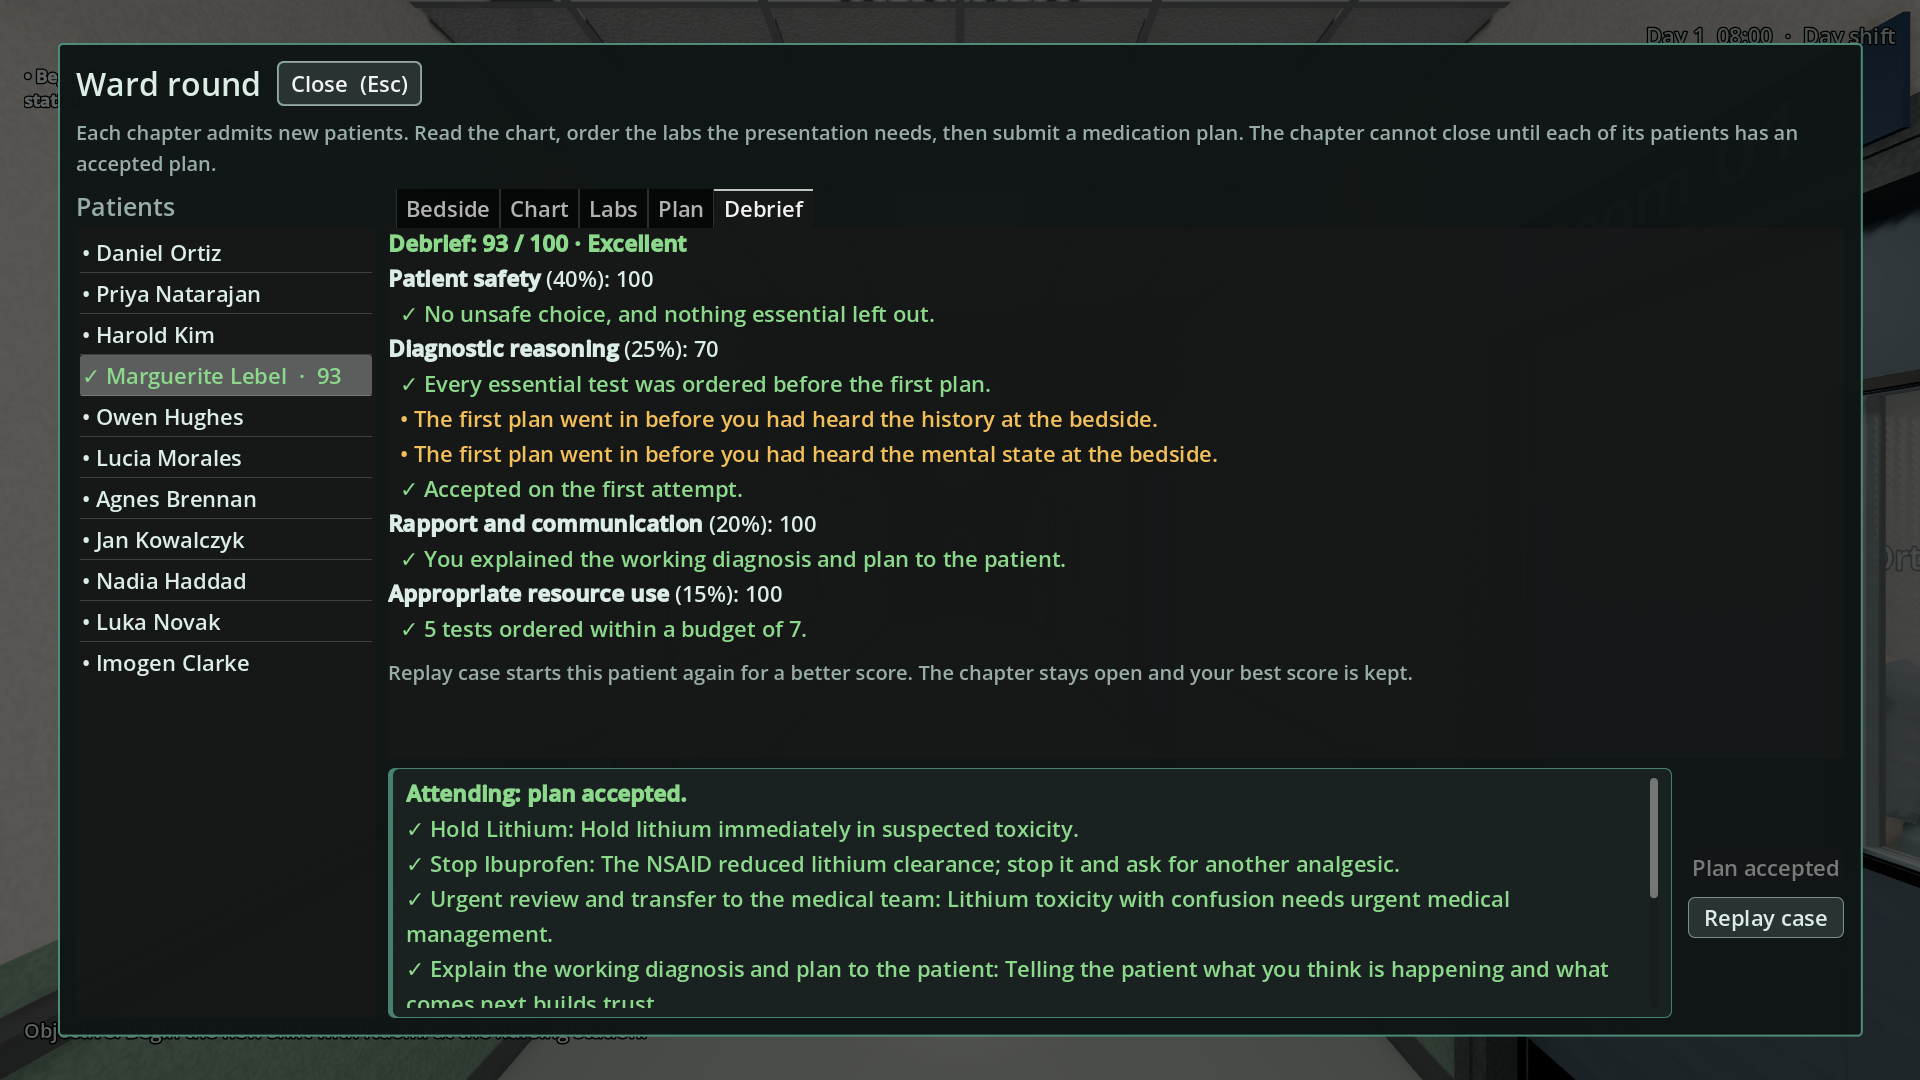
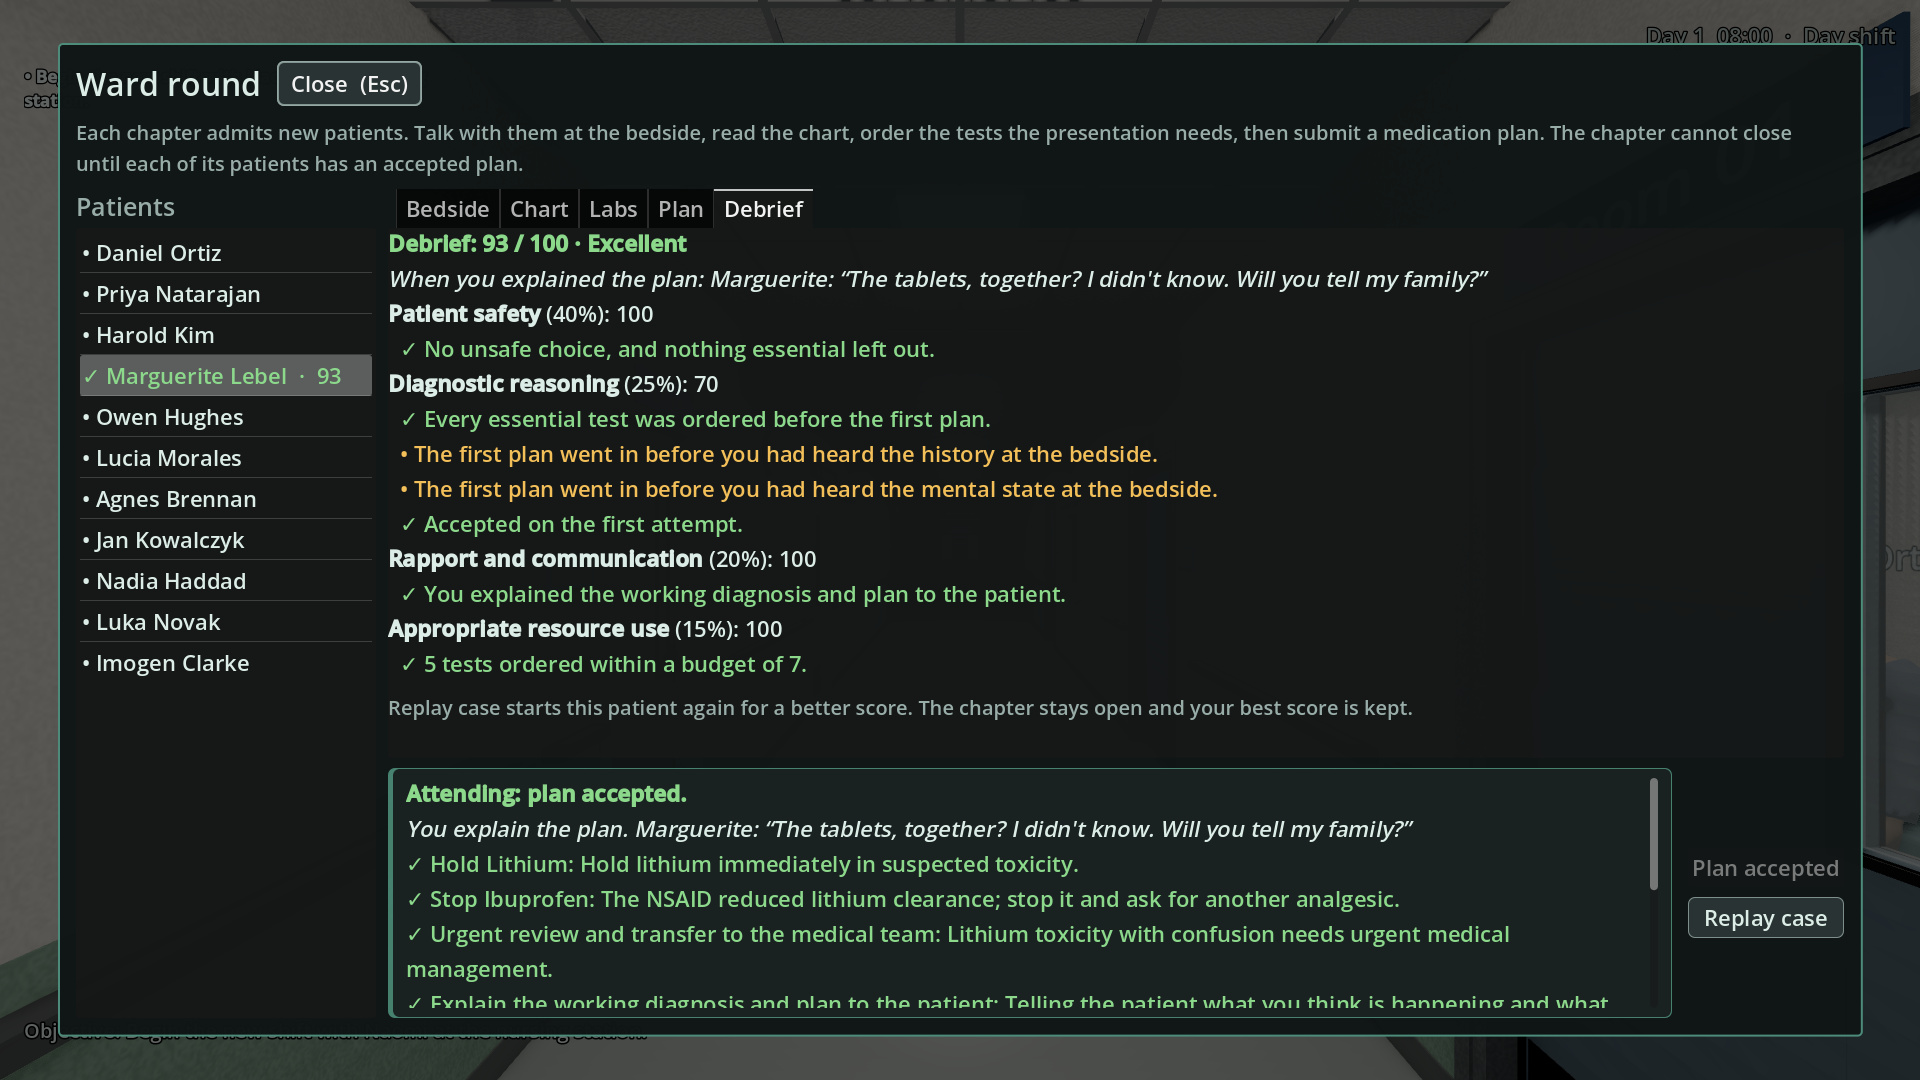
Ward rounds: the patient answers when you explain the plan
Each case gets a draft line (pending review), shown with the attending's
reply and in the debrief when the accepted plan included explaining it.

Claude-Session: https://claude.ai/code/session_018yfydewyfGQxfDVfhVpzYB

diff --git a/docs/clinical_review_log.md b/docs/clinical_review_log.md
@@ -58,3 +58,4 @@ Bi (owner, executive producer, physician) in the Forensics Game project thread, 
 | 2026-11-03 | Ward-round bedside conversation: three openings (warm, direct, rushed) with generic patient responses, three questions that reveal each case's existing history, mental state and observations, a repair line and a low-trust reply; debrief penalties for a rushed or direct opening and for a plan sent before the history and mental state were heard | `data/ward_rounds.json` `bedside`, `scripts/clinical/WardRounds.gd`, `scripts/clinical/WardRoundScoring.gd` | **Pending; no clinical approval granted** | | Generic communication wording by Claude Code; answers are the cases' own chart text, so nothing new is said about any patient. Applies to every case, including the approved ones (the chart now fills in as you ask). |
 | 2026-11-03 | Patients' own spoken bedside answers: a history line and a mental-state line for each of the 28 ward-round cases, in the patient's voice; patients who cannot answer (Adeyemi, Okafor, and Quinn's history) get a bracketed description of what you see | `data/ward_rounds.json` `cases[].bedside_lines` | **Pending; no clinical approval granted** | | Drafted by Claude Code from each case's own history and mental-state text; no new clinical facts, doses or thresholds. The chart still shows the clinician's full text. Applies to the approved cases too, as voice only; their answer keys are unchanged. |
 | 2026-11-04 | Patients' own spoken bedside answers (history and mental-state lines for all 28 cases) | `data/ward_rounds.json` `cases[].bedside_lines` | **Approved** | Owner (executive producer, physician) | Owner's words in the project thread (2026-11-04 14:12 UTC): "i apprve the bedside lines so far". Approved as written in `bedside_lines_review.md`. The generic bedside openings, repair and low-trust wording, and the scoring deductions, were not named and stay pending. |
+| 2026-11-04 | What each of the 28 ward-round patients says when the accepted plan includes explaining it to them (one line per case; bracketed descriptions for Adeyemi, Okafor and Quinn) | `data/ward_rounds.json` `cases[].plan_response` | **Pending; no clinical approval granted** | | Drafted by Claude Code. Emotional responses only: no treatment names, doses or outcomes. Family members named only where the case already mentions them (Kim's and Doyle's wives, Whitaker's daughter). Shown with the attending's reply and in the debrief; it does not change any score. |

diff --git a/docs/AI_PROGRESS_TRACKER.md b/docs/AI_PROGRESS_TRACKER.md
@@ -9,6 +9,7 @@
 | Bedside conversation (opening sets trust, questions fill the chart, debrief counts it) | Done, draft PR #120 | #119 | `WardRounds.gd`, `WardRoundScreen.gd`, `data/ward_rounds.json` `bedside` | `test_ward_round_conversation` (5), captures | Bi reviews wording; case-specific lines next |
 | Patients answer in their own words (28 cases × history and mental-state lines) | Done, draft PR #121, lines approved by Bi 2026-11-04 | #120 | `data/ward_rounds.json` `bedside_lines`, `WardRounds.bedside_line`, `WardRoundCatalog.validate_bedside_lines` | `test_ward_round_conversation` (7) | Bi reviews the lines |
 | Ponytail strand cards and hairline wisps (22 patients rebuilt) | Done, draft PR | #121 | `build_cast_member.py` (`tail_cards`, `hairline_cards`), `pt_wr_*.json`, patient GLBs | full QA, in-game capture | Bi looks at the hair |
+| Patient answers when you explain the plan (28 lines) | Done, draft PR, pending Bi's review | #122 | `data/ward_rounds.json` `plan_response`, `WardRounds.plan_response`, `WardRoundScreen.gd` | `test_ward_round_conversation` (8) | Bi reviews the lines |
 | Hair cards on 23 patients (strand strips over the cap) | Done, draft PR | #118 | `build_cast_member.py` `hair.cards` | GLB 199/0, in-game capture | Bi looks at the hair |
 | Older/greying/heavier patient looks (age marks, grey hair, receding temples, weight at any age); 15 rebuilt | Done, draft PR | #117 | `build_cast_member.py`, `pt_wr_*.json` | GLB 199/0, before/after sheet | Bi looks at the faces |
 | Case bible third wave (8 cases, referral labels, bedside assessments, wrong-for-everyone choices) | Done on #115, pending Bi's clinical review | #115 | `data/ward_rounds.json`, `WardRoundCatalog.gd` | `test_ward_rounds` | Bi reviews in the review doc |

diff --git a/docs/AI_HANDOFF.md b/docs/AI_HANDOFF.md
@@ -20,6 +20,7 @@ One row per branch that someone is working on. Claim the folders or files you wi
 
 | Workstream | Branch | Agent / session | Latest verified commit | Claimed files | State |
 |---|---|---|---|---|---|
+| Patient answers the explained plan | `claude/ward-round-plan-response` (draft PR to `claude/patient-hair-tails`) | Claude Code (cloud) | last commit on the branch | `data/ward_rounds.json` `plan_response`, `WardRounds.gd`, `WardRoundCatalog.gd`, `WardRoundScreen.gd`, `test_ward_round_conversation.gd` | Full QA; lines pending Bi's review |
 | Patient ponytails and hairlines | `claude/patient-hair-tails` (draft PR to `claude/ward-round-patient-voices`) | Claude Code (cloud) | last commit on the branch | `tools/blender/characters/build_cast_member.py`, `tools/blender/characters/cast/pt_wr_*.json`, rebuilt patient assets | Full QA; waiting on Bi's look |
 | Ward-round patient voices | `claude/ward-round-patient-voices` (draft PR to `claude/ward-round-bedside-talk`) | Claude Code (cloud) | last commit on the branch | `data/ward_rounds.json` `bedside_lines`, `WardRounds.gd`, `WardRoundCatalog.gd`, `test_ward_round_conversation.gd` | Full QA passed; lines approved by Bi 2026-11-04 |
 | Ward-round bedside conversation | `claude/ward-round-bedside-talk` (draft PR to `claude/patient-hair-cards`) | Claude Code (cloud) | last commit on the branch | `WardRounds.gd`, `WardRoundCatalog.gd`, `WardRoundScoring.gd`, `WardRoundScreen.gd`, `data/ward_rounds.json` `bedside`, `test_ward_round_conversation.gd`, capture tool | Full QA passed; waiting on Bi |

diff --git a/docs/AI_SESSION_HANDOFF.md b/docs/AI_SESSION_HANDOFF.md
@@ -2,6 +2,7 @@
 
 ## Claude Code ward-round patients on the ward — 2026-11-03
 
+- Top of the stack (2026-11-04): `claude/ward-round-plan-response` (draft PR stacked on #122): when the accepted plan includes explaining it, the patient answers in their own words (pending Bi's review). See `docs/handoffs/2026-11-04_claude_ward_round_plan_response.md`.
 - Newest of all (2026-11-04): `claude/patient-hair-tails` (draft PR stacked on #121): ponytails are strand cards over a slimmer core and hairlines break into wisps, on 22 patients. Next: Bi looks at the before/after; then the next story/interactivity step. See `docs/handoffs/2026-11-04_claude_patient_hair_tails.md`.
 - Newest of all: `claude/ward-round-patient-voices` (draft PR stacked on #120): each patient answers bedside questions in their own words (`cases[].bedside_lines`, approved by Bi 2026-11-04); the chart keeps the clinician's text. Full QA passed: game 408/0, audio 1720/0, QA 19/0/0, GLB 199/0, exit 0. Next: Bi reviews the lines (`/mnt/project-files/ward_round/bedside_lines_review.md`). See `docs/handoffs/2026-11-03_claude_ward_round_patient_voices.md`.
 - Most recent: `claude/ward-round-bedside-talk` (draft PR #120, stacked on #119): bedside conversation. Full QA passed: game 406/0, exit 0. Next: Bi reviews; case-specific voiced lines would need reviewed writing. See `docs/handoffs/2026-11-03_claude_ward_round_bedside_talk.md`.

diff --git a/docs/handoffs/2026-11-04_claude_ward_round_plan_response.md b/docs/handoffs/2026-11-04_claude_ward_round_plan_response.md
@@ -1,0 +1,12 @@
+# Handoff: the patient answers when you explain the plan (Claude Code, 2026-11-04)
+
+- Branch: `claude/ward-round-plan-response`, stacked on `claude/patient-hair-tails` (#122). Draft PR; do not merge until the stack is reviewed.
+- What changed:
+  - `data/ward_rounds.json`: every case has `plan_response` {review_status PENDING_PSYCHIATRIST_REVIEW, line}.
+  - `WardRounds.plan_response(case_id)`: the patient's line, formatted like bedside lines, only when the accepted plan includes `int:explain_plan`; "" otherwise. Shared `_spoken` formatter.
+  - `WardRoundCatalog.validate`: a `plan_response` needs a review status and a non-empty line.
+  - `WardRoundScreen`: the line appears under "Attending: plan accepted." and at the top of the Debrief tab. No score changes.
+  - Test: `test_ward_round_conversation.gd` now 8 tests.
+- Clinical: pending Bi's review (row in `docs/clinical_review_log.md`); review sheet `/mnt/project-files/ward_round/plan_responses_review.md`.
+- Next: Bi reviews the lines.
+- Tests: full QA passed (game 409/0, audio 1720/0, QA 19/0/0, GLB 199/0, Chapter 1 sequence done, exit 0). Not tested on the Mac.

diff --git a/docs/PROJECT_STATUS.md b/docs/PROJECT_STATUS.md
@@ -1,3 +1,5 @@
+**Patients answer your explanation (Claude Code, 2026-11-04; draft PR, not merged):** `claude/ward-round-plan-response` on #122. When you explain the plan, the patient now replies in their own words, shown with the attending's reply and in the debrief (lines pending Bi's review). Not tested on the Mac.
+
 **Patient ponytails and hairlines (Claude Code, 2026-11-04; draft PR, not merged):** `claude/patient-hair-tails` on #121. Ponytails on 14 patients are now strand cards that spread at the ends, and 22 patients' hairlines break into fine wisps instead of a hard edge. Not tested on the Mac.
 
 **Patients' own words at the bedside (Claude Code, 2026-11-03; draft PR, not merged):** `claude/ward-round-patient-voices` on #120. Each ward-round patient now answers bedside questions in their own voice (lines approved by Bi on 2026-11-04); the chart still records the clinician's full account. Not tested on the Mac.
